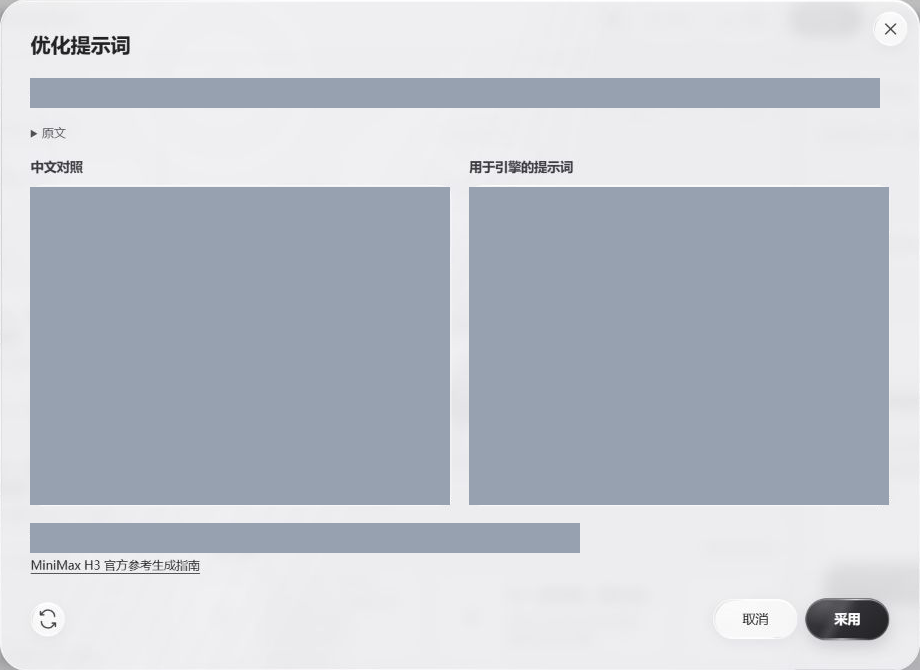
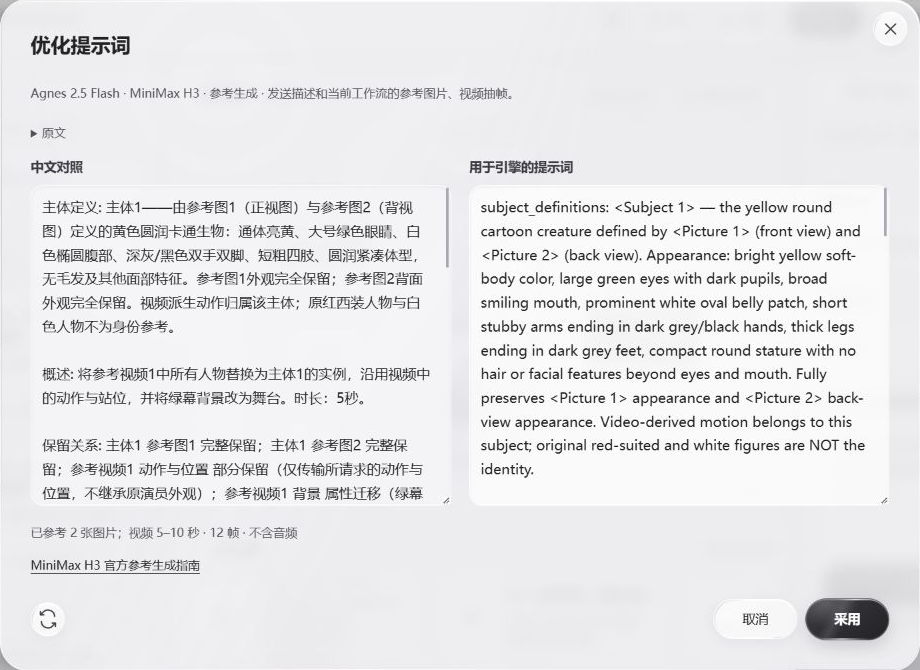
Show original interface screenshots

diff --git a/README.md b/README.md
@@ -6,15 +6,15 @@
 
 ## 软件界面
 
-![映流早期真实界面截图，个人素材和提示词已打码](docs/assets/screen-main-interface.png)
+![映流早期真实界面截图](docs/assets/screen-main-interface.png)
 
-*真实历史截图：灰色区域为隐私打码。截图来自早期版本，名称、布局和部分按钮与当前版本可能不同。*
+*真实历史截图；名称、布局和部分按钮与当前版本可能不同。*
 
 ![映流启动界面预览](docs/assets/startup.png)
 
 ## 界面分区：每块区域做什么
 
-以下为软件的**真实历史截图**，仅截取相关区域并对私人素材、文件名和提示词打码。截图来自早期版本，具体布局和按钮以当前软件为准。
+以下为软件的**真实历史截图**，按功能截取相关区域。截图来自早期版本，具体布局和按钮以当前软件为准。
 
 ### 工作流库：导入、搜索和添加工作流
 
@@ -24,19 +24,19 @@
 
 ### 动作迁移：连接参考、设置时间、接续片段
 
-![动作迁移卡片真实历史截图，参考素材与提示词已打码](docs/assets/screen-motion-workflow.png)
+![动作迁移卡片真实历史截图](docs/assets/screen-motion-workflow.png)
 
 将人物参考图和动作视频拖入画布，分别连到动作工作流卡片；选中卡片后设置描述和起止时间。支持接续的 H3 工作流会显示“接续上一段”：在同一画布选择上一段作品，让它的末帧引导新片段开头。不同工作流显示的参数可能不同。
 
 ### 素材与作品：查找、收纳和复用
 
-![素材与作品面板真实历史截图，素材已打码](docs/assets/screen-media-library.png)
+![素材与作品面板真实历史截图](docs/assets/screen-media-library.png)
 
 展开右侧面板，可搜索并按生成、图片或视频筛选。把素材或作品拖到画布即可复用；也可以将画布中的媒体拖回右侧收纳。选中工作流卡片后，右侧“详细设置”用于调整更多参数。
 
 ### 任务记录：查看进度和结果
 
-![早期版本任务记录真实截图，任务内容已打码](docs/assets/screen-task-history.png)
+![早期版本任务记录真实截图](docs/assets/screen-task-history.png)
 
 截图为早期版本，任务记录当时位于底部；当前版本点击顶部的“任务”，查看等待、生成中、完成或失败的任务以及进度。点击记录可尝试跳转到对应画布和卡片；任务完成后，作品可以在画布和素材栏查找。
 
@@ -60,17 +60,17 @@
 
 ### 4. 视频片段拼接
 
-![视频拼接真实历史截图，视频画面和文件名已打码](docs/assets/screen-video-join.png)
+![视频拼接真实历史截图](docs/assets/screen-video-join.png)
 
-*真实历史截图，视频内容与名称已打码；界面布局可能与当前版本不同。*
+*真实历史截图；界面布局可能与当前版本不同。*
 
 双击画布空白处，创建“视频拼接”节点；将需要的视频片段连接进去，在节点内调整顺序和截取范围，再点击 **拼接**。完成后的新作品会回到画布。这个步骤需要本机安装 FFmpeg 和 ffprobe。
 
 ### 5. 自己配置 AI，优化提示词
 
-![提示词优化对话框真实历史截图，内容已打码](docs/assets/screen-prompt-optimizer.png)
+![提示词优化对话框真实历史截图](docs/assets/screen-prompt-optimizer.png)
 
-*真实历史截图，原提示词和生成结果已打码。*
+*真实历史截图；当前版本的选项可能有所不同。*
 
 在设置中填写服务地址、模型名和密钥，可使用 OpenAI 兼容接口、Anthropic Messages、Ollama 或 Agnes。选中工作流卡片后，通过提示词旁的优化按钮生成建议；先查看优化结果和中文对照，点击 **采用** 后才会替换原文。
 

diff --git a/docs/发布说明.md b/docs/发布说明.md
@@ -2,7 +2,7 @@
 
 `scripts/package_release.py` 生成独立的干净目录与 ZIP。请将 `YingLiu-版本-source` 中的文件作为仓库根目录上传，不要上传个人工作目录的上级目录，也不要上传整个 `data/`。
 
-源码发布目录排除了本机配置、密钥、画布、任务记录、参考素材、模型、个人截图与旧安装文件，并生成逐文件 SHA256 清单。说明文档中的启动预览和流程示意图不包含用户素材。Windows 便携包只额外包含新构建的 `映流.exe`、来源固定且校验过的 WebView2 DLL 和 Microsoft 许可文件，不包含用户数据。
+源码发布目录排除了本机配置、密钥、画布、任务记录、参考素材、模型、未经授权的截图与旧安装文件，并生成逐文件 SHA256 清单。说明文档包含经发布者授权的历史界面截图。Windows 便携包只额外包含新构建的 `映流.exe`、来源固定且校验过的 WebView2 DLL 和 Microsoft 许可文件，不包含用户数据。
 
 映流自身源码采用 MIT 许可证。同步桥依赖的第三方组件和个人导入工作流的模型不包含在源码包中。分享示例工作流前需要确认其中的提示词、文件名、路径、API 节点凭据和第三方授权。
 
